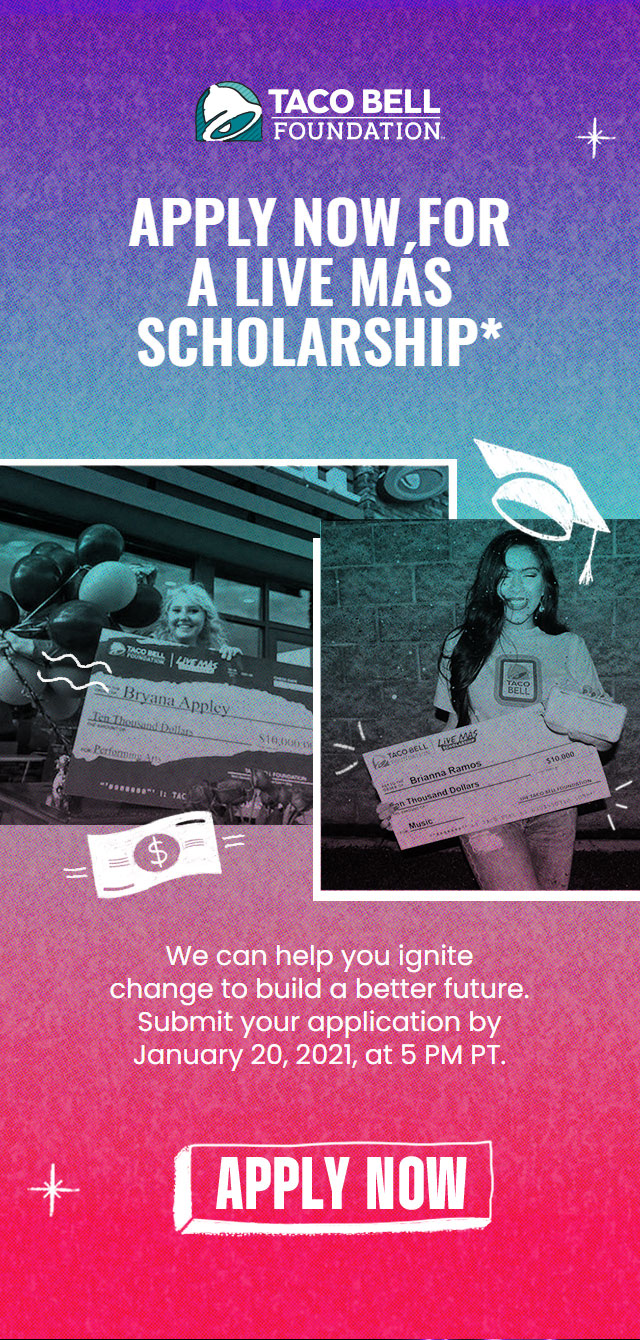
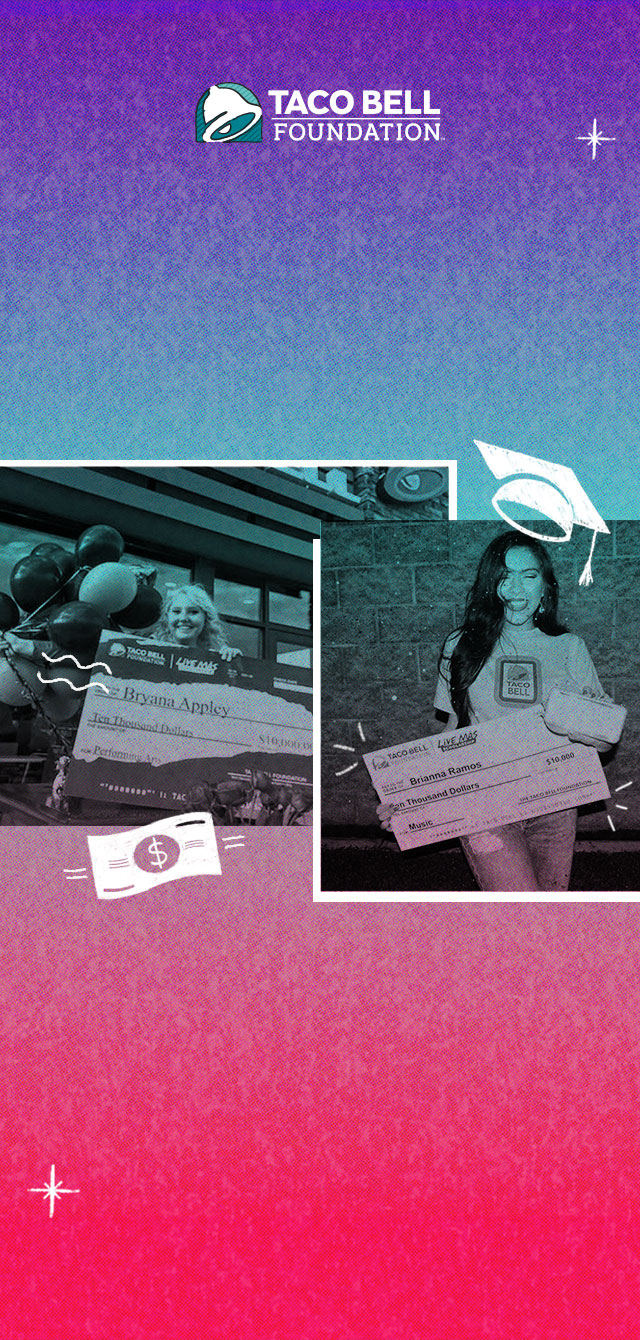
restore;

diff --git a/emails/TB-377_Loaded_Nacho_Tacos/Loaded_Nacho_Tacos.html b/emails/TB-377_Loaded_Nacho_Tacos/Loaded_Nacho_Tacos.html
@@ -217,7 +217,7 @@
 
       .hero_fake_link_wrapper {
         width: 100% !important;
-        height: 1340px !important;
+        height: 100% !important;
         display: inline-block;
       }
 
@@ -472,7 +472,7 @@
       }
 
       #MessageViewBody .hero_fake_link_wrapper {
-        height: 1340px !important;
+        height: 100% !important;
         position: relative;
 
       }
@@ -511,7 +511,7 @@
 
       .hero_fake_link_wrapper {	
         position: relative;	
-		    height: 1340px !important;	
+		    height: 100% !important;	
       }	
       .hero_fake_link {	
         position: relative;	
@@ -682,7 +682,7 @@
 
     u~div .hero_fake_link_wrapper {
       position: relative;
-      height: 1340px !important;
+      height: auto !important;
     }
   </style>
 
@@ -1086,18 +1086,118 @@
 						  <table border="0" width="100%" cellpadding="0" cellspacing="0" style="width:100%; font-size: 0px;" role="presentation">
 
 
-              
+                <tr>
+                  <td>
+                    <!-- Spacer : BEGIN -->
+                    <table border="0" cellpadding="0" cellspacing="0"> 
+                      <tr>
+                        <td height="190" width="100%" style="font-size: 190px; line-height: 190px;">
+                        &nbsp;
+                        </td>
+                      </tr>
+                    </table>
+                    <!-- Spacer : END -->
+                    </td>
+                </tr>
+						   <tr>
+
+							  <td class="hero_headline_wrapper" align="center" >
+
+								<h1 class="font_OswaldBold hero_headline" style="font-family: Helvetica, Arial, sans-serif; font-weight: bold;  color:#ffffff; text-decoration:none; font-size: 60px; line-height: 62px; margin: 0px;">
+								  <a class="font_OswaldBold hero_headline" href="https://www.tacobellfoundation.org?utm_medium=email&utm_source=silverpop&utm_campaign=mktg_010821-Loaded-Nacho-Taco&utm_content=cta-Foundation&guid=%%HybrisGUID%%" target="_blank" style="color:#ffffff; text-decoration: none; font-size: 60px; line-height: 62px; margin: 0px"> 
+									  <span class="font_OswaldBold" style="font-family: Helvetica, Arial, sans-serif;">
+
+										  <br />
+										  A LIVE MÁS<br />
+										  SCHOLARSHIP*	
+
+								      </span>
+								  </a>
+								</h1>
+
+							  </td>
+
+							</tr>
+              <tr>
+                <td>
+                  <!-- Spacer : BEGIN -->
+                  <table border="0" cellpadding="0" cellspacing="0"> 
+                    <tr>
+                      <td height="70" width="100%" style="font-size: 70px; line-height: 70px;">
+                      &nbsp;
+                      </td>
+                    </tr>
+                  </table>
+                  <!-- Spacer : END -->
+                  </td>
+              </tr>
 							<tr>
 							  <td valign="top">
 
 							  <a name="img" class="hero_fake_link_wrapper" href="https://www.tacobellfoundation.org?utm_medium=email&utm_source=silverpop&utm_campaign=mktg_010821-Loaded-Nacho-Taco&utm_content=cta-Foundation&guid=%%HybrisGUID%%" target="_blank">
-								<img class="hero_fake_link" style="height:1340px; width:640px;" src="https://s3-us-west-1.amazonaws.com/rauxa.email.campaign.assets/2020/taco-bell/TB-377_Loaded_Nacho_Tacos/Loaded_Nachos_fake_link.png" alt="" aria-hidden="true" />
+								<img class="hero_fake_link" style="" src="https://s3-us-west-1.amazonaws.com/rauxa.email.campaign.assets/2020/taco-bell/TB-377_Loaded_Nacho_Tacos/Loaded_Nachos_fake_link.png" alt="" aria-hidden="true" />
 							   </a>
 
 							  </td>
               </tr>
-            </table>
+              <tr>
+                <td>
+                  <!-- Spacer : BEGIN -->
+                  <table border="0" cellpadding="0" cellspacing="0"> 
+                    <tr>
+                      <td height="100" width="100%" style="font-size: 100px; line-height: 100px;">
+                      &nbsp;
+                      </td>
+                    </tr>
+                  </table>
+                  <!-- Spacer : END -->
+                  </td>
+              </tr>
+							    <tr>
+
+							  <td align="center" class="fontPoppins hero_bodycopy_2 hero_yh" style="font-family:Helvetica, Arial, sans-serif; color:#ffffff; text-decoration:none; font-size: 27px; line-height: 33px; padding-bottom: 0px">
+								  We can help you ignite<br />
+								  change to build a better future.<br />
+								  Submit your application by<br />
+								  J&zwnj;anu&zwnj;ary 2&zwnj;0, 2&zwnj;0&zwnj;2&zwnj;1, at 5&zwnj; P&zwnj;M PT. 		
+							  </td>
+
+							</tr> 
+							  <tr>
+								  <td align="center" valign="top">
+								  	<table border="0" width="100%" cellpadding="0" cellspacing="0" style="width: 100%" role="presentation">
+                      <tr>
+                        <td>
+                          <!-- Spacer : BEGIN -->
+                          <table border="0" cellpadding="0" cellspacing="0"> 
+                            <tr>
+                              <td height="65" width="100%" style="font-size: 65px; line-height: 65px;">
+                              &nbsp;
+                              </td>
+                            </tr>
+                          </table>
+                          <!-- Spacer : END -->
+                          </td>
+                      </tr>
+						<tr>
+							<td>&nbsp;</td>
+							<td align="center"><a name="btn Apply now" href="https://www.tacobellfoundation.org?utm_medium=email&utm_source=silverpop&utm_campaign=mktg_010821-Loaded-Nacho-Taco&utm_content=cta-Foundation&guid=%%HybrisGUID%%" target="_blank"> <img class="btn_mobile" alt="Taco Bell" src="https://raw.githubusercontent.com/RauxaRepo/tb-snippets/TB-377_Loaded_Nacho_Tacos/emails/TB-377_Loaded_Nacho_Tacos/img/Loaded_Nachos_btn.png"/> </a></td>
+							<td>&nbsp;</td>
+							</tr>
+							<tr>
+					<td colspan="3" height="30" width="100%" style="height: 30px;mso-table-lspace: 0pt;mso-table-rspace: 0pt;mso-line-height-rule: exactly;line-height: 30px;" class="mobile_space_2">
+					  <!--[if gte mso 15]>&nbsp;<![endif]-->
+					</td>
+				  </tr>
+						</table>
+								  </td>
 							  
+							  </tr>
+
+
+
+
+						  </table>
 						  <!--[if gte mso 9]> 
 						  </v:textbox>
 						  </v:fill>
